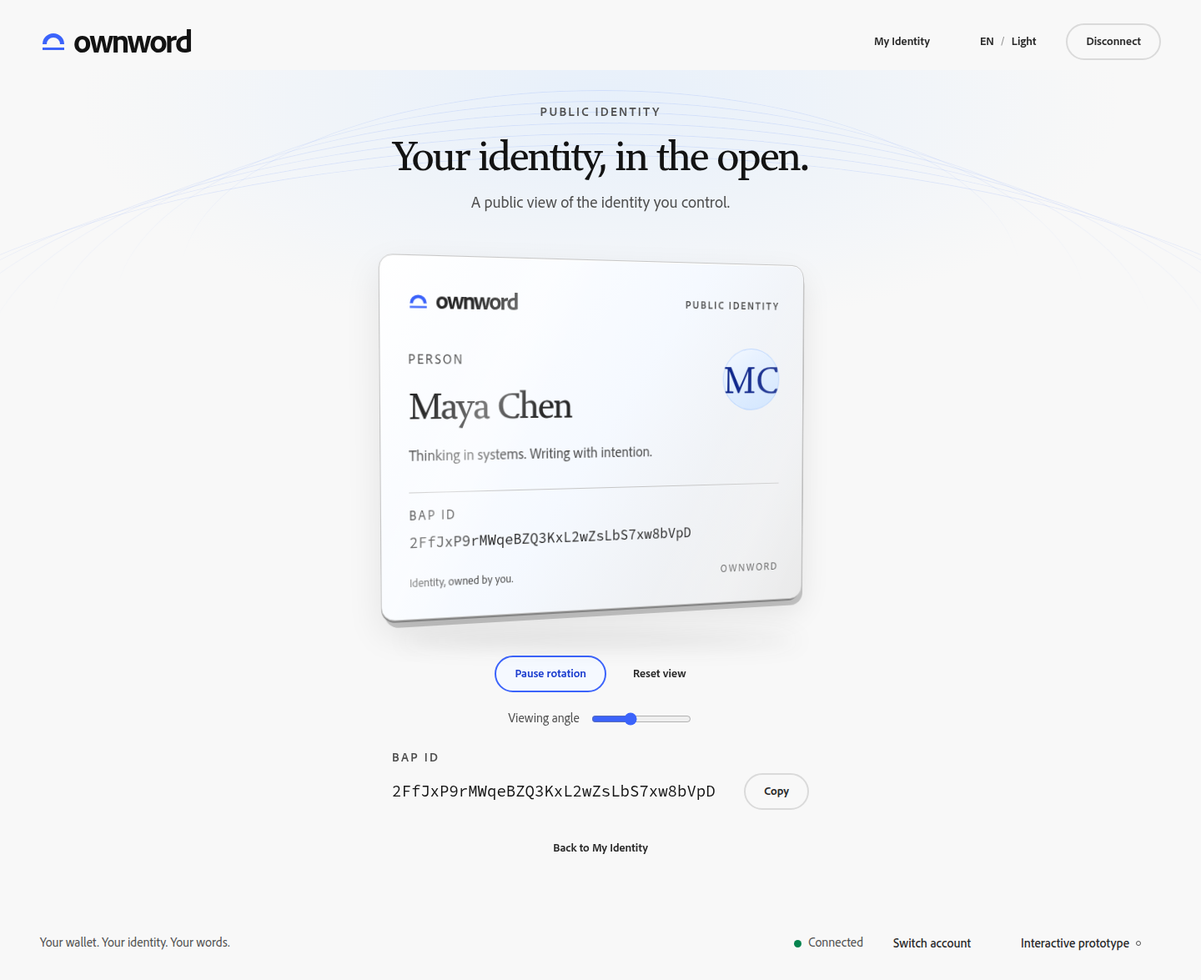
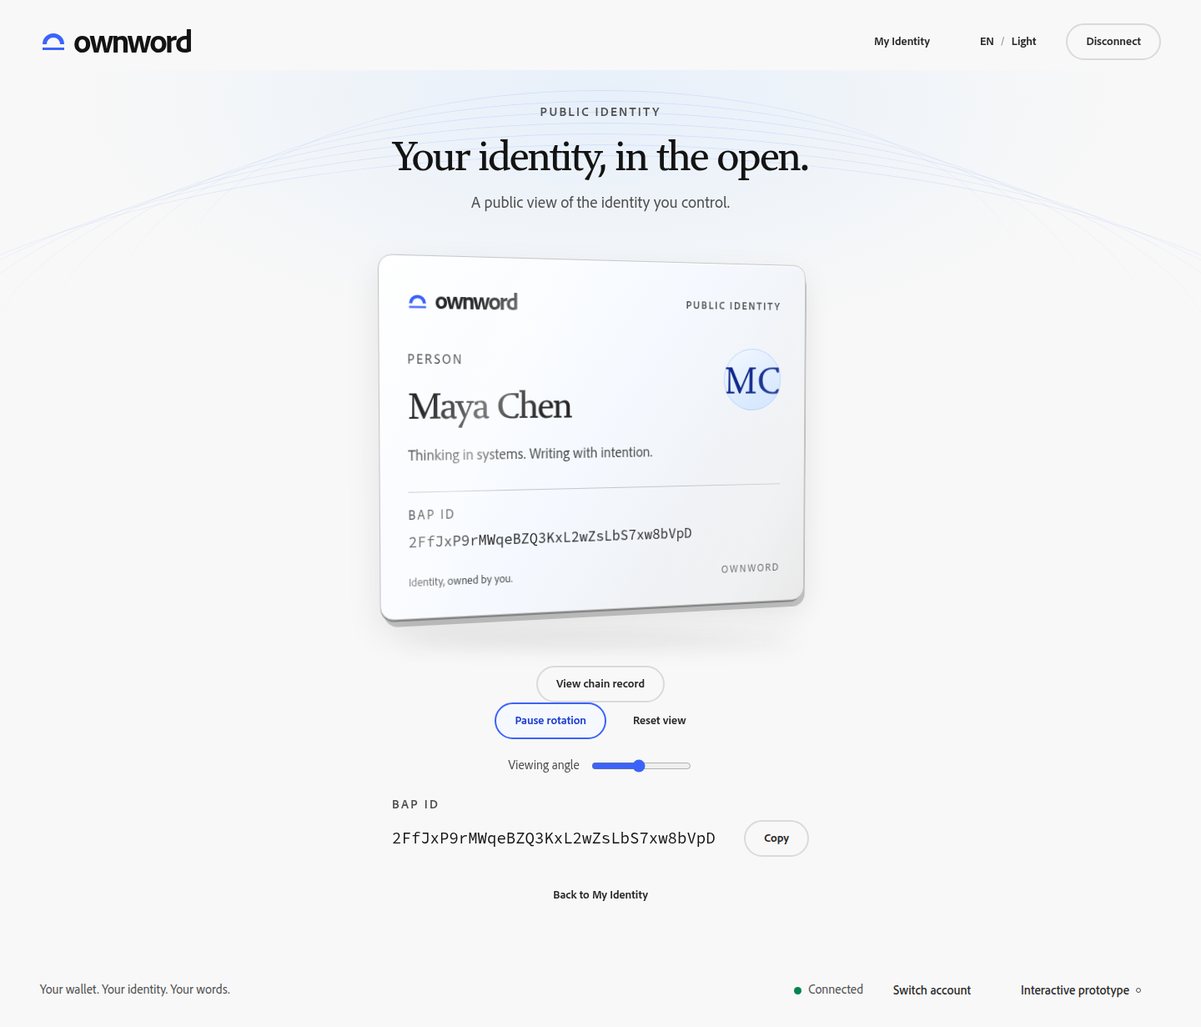
批3-a：公开身份卡双面链上记录（pending/confirmed 两态），修遮挡缺陷，426 项检查通过 (PRD v0.1_20260909-205445)

diff --git a/components.jsx b/components.jsx
@@ -71,7 +71,7 @@ function Modal({title, titleKey, children, onCancel, closeLabel}) {
     <h2 id="dialog-title">{title}</h2>{children}
   </dialog>;
 }
-function Identifier({id, t, failCopy = false}) {
+function Identifier({id, t, failCopy = false, label = 'BAP ID', copyLabel = 'copyBap', target = 'bap'}) {
   const [feedback, setFeedback] = React.useState('');
   React.useEffect(() => {setFeedback('');}, [id]);
   async function copy() {
@@ -79,27 +79,42 @@ function Identifier({id, t, failCopy = false}) {
     catch {setFeedback('copyFailed');}
   }
   return <div className="identifier">
-    <div className="identifier-top"><span className="eyebrow">BAP ID</span><span className="copy-feedback" role="status" data-copy-feedback={feedback || ""}>{feedback ? t(feedback) : ''}</span></div>
-    <div className="identifier-value"><code title={id}>{id}</code><Button data-action="copy" onClick={copy} aria-label={t('copyBap')}>{t('copy')}</Button></div>
+    <div className="identifier-top"><span className="eyebrow">{label}</span><span className="copy-feedback" role="status" data-copy-target={target} data-copy-feedback={feedback || ""}>{feedback ? t(feedback) : ''}</span></div>
+    <div className="identifier-value"><code title={id}>{id}</code><Button data-action={'copy-' + target} onClick={copy} aria-label={t(copyLabel)}>{t('copy')}</Button></div>
   </div>;
 }
-function IdentityCard({profile, id, t, failCopy, rotating, setRotating, angle, setAngle}) {
+function IdentityCard({profile, id, t, failCopy, transaction, rotating, setRotating, angle, setAngle}) {
   const drag = React.useRef(null);
+  const normalized = ((angle % 360) + 360) % 360;
+  // The back face is only exposed while the card is turned past 90 degrees;
+  // auto-rotation keeps the front in the accessibility tree.
+  const back = normalized > 90 && normalized < 270;
   return <div className="identity-stage">
     <div className="identity-object" onPointerDown={e => {if (e.target.closest('button')) return; drag.current = {x: e.clientX, angle}; setRotating(false); e.currentTarget.setPointerCapture(e.pointerId);}} onPointerMove={e => {if (drag.current) setAngle(drag.current.angle + (e.clientX - drag.current.x) * .35);}} onPointerUp={() => {drag.current = null;}} onPointerCancel={() => {drag.current = null;}}>
-      <div className={`identity-sculpture ${rotating ? 'rotating' : ''}`} style={{'--angle': `${angle}deg`}}>
+      <div className={`identity-sculpture ${rotating ? 'rotating' : ''}`} data-face={back ? 'back' : 'front'} style={{'--angle': `${angle}deg`}}>
         <div className="plate-depth" aria-hidden="true"></div>
-        <article className="identity-plate">
+        <article className="identity-plate plate-front" aria-hidden={back} inert={back ? '' : undefined}>
           <div className="plate-top"><span className="wordmark-small"><BrandMark />ownword</span><span className="eyebrow">{t('publicIdentity')}</span></div>
           <div className="plate-person"><Portrait profile={profile} large /><span className="profile-type">{t(profile.type)}</span><h2>{profile.name}</h2><p className="bio">{profile.bio || t('noBio')}</p></div>
           <div className="plate-id"><span>BAP ID</span><code>{id}</code></div>
           <div className="plate-foot"><span>{t('ownedByYou')}</span><span>OWNWORD</span></div>
         </article>
+        <article className="identity-plate plate-back" aria-hidden={!back} inert={!back ? '' : undefined}>
+          <div className="plate-top"><span className="wordmark-small"><BrandMark />ownword</span><span className="eyebrow">{t('chainRecord')}</span></div>
+          <div className="chain-heading"><h3>{t('identityPublication')}</h3><p>{profile.name}</p></div>
+          <dl className="chain-facts">
+            <div><dt>{t('blockHeight')}</dt><dd data-chain="block">{transaction && transaction.blockHeight ? transaction.blockHeight.toLocaleString('en-US') : t('pendingBlock')}</dd></div>
+            <div><dt>{t('confirmation')}</dt><dd data-chain="confirmation">{t(transaction && transaction.blockHeight ? 'confirmed' : 'pendingConfirmation')}</dd></div>
+          </dl>
+          {transaction ? <Identifier id={transaction.txid} label={t('publicationTx')} copyLabel="copyTx" target="tx" t={t} failCopy={failCopy} /> : <p className="hint">{t('recordUnavailable')}</p>}
+          <div className="plate-foot"><span>{t('sampleRecord')}</span><span>BSV</span></div>
+        </article>
       </div>
     </div>
     <div className="object-shadow" aria-hidden="true"></div>
+    <div className="card-actions"><Button data-action="toggle-face" onClick={() => {setRotating(false); setAngle(back ? 0 : 180);}}>{t(back ? 'showFront' : 'showRecord')}</Button></div>
     <div className="rotation-controls"><Button data-action="toggle-rotation" onClick={() => setRotating(!rotating)} aria-pressed={rotating}>{t(rotating ? 'pauseRotation' : 'rotate')}</Button><Button variant="quiet" data-action="reset-view" onClick={() => {setRotating(false); setAngle(0);}}>{t('resetView')}</Button></div>
-    <label className="rotation-label">{t('angle')}<input aria-label={t('angle')} type="range" min="-40" max="40" value={angle} onChange={e => {setRotating(false); setAngle(+e.target.value);}} /></label>
+    <label className="rotation-label">{t('angle')}<input aria-label={t('angle')} type="range" min="-180" max="180" value={angle} onChange={e => {setRotating(false); setAngle(+e.target.value);}} /></label>
     <div className="public-copy"><Identifier id={id} t={t} failCopy={failCopy} /></div>
   </div>;
 }

diff --git a/model.js b/model.js
@@ -2,11 +2,17 @@
 (function (root) {
   const ids = ['2FfJxP9rMWqeBZQ3KxL2wZsLbS7xw8bVpD', '3GkA8rRtC4a6oX9PzM2cV7mHxTqB5wEeNs'];
   const emptyProfile = () => ({name: '', type: 'Person', bio: '', image: ''});
+  // Display fixtures only. Production reads publication records from the wallet
+  // or indexer contract; see implementation-handoff.md section 3.
+  const transactions = [
[2 lines of base64/hex data omitted]
+  ];
   const fixtures = [
     {name: 'Maya Chen', type: 'Person', bio: 'Thinking in systems. Writing with intention.\nBuilding a more human internet.', image: ''},
     {name: 'North Studio', type: 'Organization', bio: 'An independent practice for ideas that endure.', image: ''}
   ];
-  function initial() { return {page: 'welcome', wallet: false, account: 0, published: false, profile: emptyProfile(), draft: emptyProfile(), modal: null, notice: '', error: '', busy: '', epoch: 0, incomplete: false}; }
+  function initial() { return {page: 'welcome', wallet: false, account: 0, published: false, transaction: null, profile: emptyProfile(), draft: emptyProfile(), modal: null, notice: '', error: '', busy: '', epoch: 0, incomplete: false}; }
   function validate(p) {
     return {name: !p.name.trim() ? 'required' : [...p.name].length > 100 ? 'nameLong' : '', bio: [...p.bio].length > 1000 ? 'bioLong' : '', type: !['Person', 'Organization'].includes(p.type) ? 'typeRequired' : ''};
   }
@@ -19,7 +25,7 @@
         if (a.scenario === 'resolveFail') return {...s, page: 'resolve-error', busy: '', error: 'resolveFailed'};
         const published = a.scenario === 'existing' || a.scenario === 'incomplete';
         const profile = published ? {...fixtures[s.account], ...(a.scenario === 'incomplete' ? {name: ''} : {})} : emptyProfile();
-        return {...s, page: a.scenario === 'existing' ? 'identity' : 'setup', profile, draft: {...profile}, published, incomplete: a.scenario === 'incomplete', busy: '', error: ''};
+        return {...s, page: a.scenario === 'existing' ? 'identity' : 'setup', profile, draft: {...profile}, published, transaction: published ? {...transactions[s.account]} : null, incomplete: a.scenario === 'incomplete', busy: '', error: ''};
       }
       case 'RETRY_RESOLVE': return {...s, page: 'resolving', busy: 'resolving', error: '', epoch: s.epoch + 1};
       case 'DRAFT': return {...s, draft: {...s.draft, [a.field]: a.value}, notice: '', error: ''};
@@ -29,7 +35,7 @@
       case 'CANCEL': return {...s, modal: null, busy: '', page: s.modal === 'save' ? (s.incomplete ? 'setup' : 'edit') : s.page, notice: s.modal === 'connect' ? 'connectCancelled' : s.modal === 'create' ? 'createCancelled' : 'saveCancelled'};
       case 'CONNECT_FAILED': return {...s, modal: null, error: 'connectFailed'};
       case 'PROCESS': return {...s, modal: null, busy: a.operation, epoch: s.epoch + 1};
-      case 'RESULT': return a.fail ? {...s, busy: '', error: a.operation === 'create' ? 'createFailed' : 'saveFailed'} : {...s, busy: '', page: a.operation === 'create' ? 'ready' : 'identity', published: true, incomplete: false, profile: {...s.draft}, notice: a.operation === 'save' ? 'saved' : '', error: ''};
+      case 'RESULT': return a.fail ? {...s, busy: '', error: a.operation === 'create' ? 'createFailed' : 'saveFailed'} : {...s, busy: '', page: a.operation === 'create' ? 'ready' : 'identity', published: true, transaction: a.operation === 'create' ? {...transactions[s.account], blockHeight: null} : s.transaction, incomplete: false, profile: {...s.draft}, notice: a.operation === 'save' ? 'saved' : '', error: ''};
       case 'CLEAR_NOTICE': return s.notice === a.notice ? {...s, notice: ''} : s;
       case 'GO': return {...s, page: a.page, notice: '', error: ''};
       case 'DISCARD_ASK': return {...s, modal: 'discard', destination: a.page};
@@ -40,7 +46,7 @@
       default: return s;
     }
   }
-  const api = {ids, fixtures, emptyProfile, initial, validate, reducer};
+  const api = {ids, fixtures, transactions, emptyProfile, initial, validate, reducer};
   if (typeof module !== 'undefined') module.exports = api;
   else root.OwnwordModel = api;
 })(typeof window !== 'undefined' ? window : globalThis);

diff --git a/app.css b/app.css
@@ -148,9 +148,9 @@ main { position: relative; width: 100%; max-width: 1280px; margin: 0 auto; paddi
 .identity-sculpture { position: relative; max-width: 530px; margin-inline: auto; transform-style: preserve-3d; transform: rotateX(6deg) rotateY(var(--angle)); transition: transform 150ms ease-out; }
 .identity-sculpture.rotating { animation: identity-turn 16s ease-in-out infinite; }
 @keyframes identity-turn { 0%,100% { transform: rotateX(5deg) rotateY(-18deg); } 50% { transform: rotateX(-3deg) rotateY(20deg); } }
-.identity-plate { position: relative; min-height: 330px; border-radius: var(--s2d-radius-xl); background: linear-gradient(125deg, var(--s2-gray-25), var(--s2-blue-100) 50%, var(--s2-gray-100)); border: 1px solid var(--s2-gray-400); padding: var(--s2-spacing-500); box-shadow: inset 0 1px 0 var(--s2-gray-25), 0 16px 40px color-mix(in srgb, var(--s2-black) 9%, transparent); transform: translateZ(6px); }
+.identity-plate { position: relative; backface-visibility: hidden; min-height: 330px; border-radius: var(--s2d-radius-xl); background: linear-gradient(125deg, var(--s2-gray-25), var(--s2-blue-100) 50%, var(--s2-gray-100)); border: 1px solid var(--s2-gray-400); padding: var(--s2-spacing-500); box-shadow: inset 0 1px 0 var(--s2-gray-25), 0 16px 40px color-mix(in srgb, var(--s2-black) 9%, transparent); transform: translateZ(6px); }
 .identity-plate::after { content: ''; position: absolute; inset: 0; border-radius: inherit; background: linear-gradient(115deg, transparent 18%, color-mix(in srgb, var(--s2-white) 38%, transparent) 28%, transparent 38%, transparent 70%, color-mix(in srgb, var(--s2-white) 22%, transparent) 85%, transparent); pointer-events: none; }
-.plate-depth { position: absolute; inset: 3px -2px -4px 2px; transform: translateZ(-4px); border-radius: var(--s2d-radius-xl); background: var(--s2-gray-500); box-shadow: 4px 6px 0 var(--s2-gray-400); }
+.plate-depth { pointer-events: none; position: absolute; inset: 3px -2px -4px 2px; transform: translateZ(-4px); border-radius: var(--s2d-radius-xl); background: var(--s2-gray-500); box-shadow: 4px 6px 0 var(--s2-gray-400); }
 .plate-top, .plate-foot { display: flex; align-items: center; justify-content: space-between; gap: var(--s2-spacing-200); }
 .wordmark-small { display: inline-flex; align-items: center; gap: var(--s2-spacing-100); flex-shrink: 0; font-size: var(--s2-font-size-500); font-weight: 750; letter-spacing: -.07em; }
 .wordmark-small .brand-mark { width: 24px; height: 24px; }
@@ -279,4 +279,21 @@ main { position: relative; width: 100%; max-width: 1280px; margin: 0 auto; paddi
   .brand-loading .brand-mark, .brand-loading::before { animation: none; }
   *, *::before, *::after { scroll-behavior: auto !important; animation-duration: .01ms !important; animation-iteration-count: 1 !important; transition-duration: .01ms !important; }
   .identity-sculpture.rotating { animation: none; transform: rotateY(var(--angle)); }
+}
+
+.identity-sculpture[data-face="front"] .plate-back,
+.identity-sculpture[data-face="back"] .plate-front { pointer-events: none; }
+.plate-back { position: absolute; inset: 0; transform: rotateY(180deg); display: flex; flex-direction: column; gap: var(--s2-spacing-300); }
+.chain-heading { margin-top: var(--s2-spacing-500); }
+.chain-heading h3 { font-family: var(--s2d-font-serif), "Songti SC", serif; font-size: var(--s2-font-size-700); font-weight: 500; letter-spacing: -.03em; }
+.chain-heading > p { margin-top: var(--s2-spacing-100); color: var(--s2-gray-700); font-size: var(--s2-font-size-100); }
+.chain-facts { display: grid; grid-template-columns: repeat(2, minmax(0, 1fr)); gap: var(--s2-spacing-300); margin: 0; padding-top: var(--s2-spacing-300); border-top: 1px solid var(--s2-gray-400); }
+.chain-facts > div { display: grid; gap: var(--s2-spacing-100); }
+.chain-facts dt { font-size: var(--s2-font-size-50); letter-spacing: .14em; color: var(--s2-gray-700); }
+.chain-facts dd { margin: 0; font-size: var(--s2-font-size-200); font-weight: 600; }
+.plate-back .identifier { margin-top: auto; }
+.plate-back .plate-foot { margin-top: var(--s2-spacing-300); }
+.card-actions { display: flex; justify-content: center; margin-top: var(--s2-spacing-400); }
+@media (max-width: 480px) {
+  .chain-facts { grid-template-columns: minmax(0, 1fr); }
 }

diff --git a/copy.js b/copy.js
@@ -29,7 +29,8 @@
     save: 'Save Changes', discardTitle: 'Discard unsaved changes?', discardBody: 'Your changes have not been saved. Keep editing, or discard them to leave this page.', keepEditing: 'Keep editing', discard: 'Discard changes',
     accountChanged: 'Account changed. Pending operations were cancelled.', identityUnchanged: 'Your identity is unchanged.', current: 'Current', preferenceHint: 'Language and appearance stay on this device.', demoAccount: 'Demo account', demoData: 'Sample identity · prototype data',
     setupStep: 'Profile', reviewStep: 'Review', confirmStep: 'Confirm', doneStep: 'Ready', copyFailureOn: 'Copy failure simulation is on', privatePreview: 'Public view preview',
-    walletStatus: 'Wallet status', persistFailed: 'Preferences could not be saved on this device.', reducedMotion: 'Reduced motion follows your device preference.'
+    walletStatus: 'Wallet status', persistFailed: 'Preferences could not be saved on this device.', reducedMotion: 'Reduced motion follows your device preference.',
+    chainRecord: 'Chain record', identityPublication: 'Identity publication', blockHeight: 'Block height', confirmation: 'Confirmation', confirmed: 'Confirmed', pendingConfirmation: 'Awaiting block confirmation', pendingBlock: 'Awaiting block', publicationTx: 'Publication TxID', copyTx: 'Copy publication TxID', showRecord: 'View chain record', showFront: 'View identity', recordUnavailable: 'Transaction record unavailable', sampleRecord: 'Sample record · prototype data'
   },
   zh: {
     connect: '连接钱包', connected: '已连接', notConnected: '未连接', connecting: '正在连接', disconnect: '断开连接', accountSwitch: '切换账户', wallet: '钱包',
@@ -59,7 +60,8 @@
     save: '保存修改', discardTitle: '放弃未保存的修改？', discardBody: '修改尚未保存。可继续编辑，或放弃修改后离开。', keepEditing: '继续编辑', discard: '放弃修改',
     accountChanged: '账户已切换，进行中的操作已取消。', identityUnchanged: '身份未改变。', current: '当前', preferenceHint: '语言与主题偏好保存在此设备。', demoAccount: '演示账户', demoData: '示例身份 · 原型数据',
     setupStep: '资料', reviewStep: '核对', confirmStep: '确认', doneStep: '就绪', copyFailureOn: '已开启复制失败模拟', privatePreview: '公开展示预览',
-    walletStatus: '钱包状态', persistFailed: '无法在此设备保存偏好。', reducedMotion: '动画遵循设备的减少动态效果设置。'
+    walletStatus: '钱包状态', persistFailed: '无法在此设备保存偏好。', reducedMotion: '动画遵循设备的减少动态效果设置。',
+    chainRecord: '链上记录', identityPublication: '身份发布记录', blockHeight: '区块高度', confirmation: '确认状态', confirmed: '已确认', pendingConfirmation: '等待区块确认', pendingBlock: '等待入块', publicationTx: '发布交易 TxID', copyTx: '复制发布交易 TxID', showRecord: '查看链上记录', showFront: '查看身份', recordUnavailable: '暂无交易记录', sampleRecord: '示例记录 · 原型数据'
   }
   };
   const api = {en: words.en, zh: words.zh, locales: ['en', 'zh'], keys: Object.keys(words.en)};

diff --git a/app.jsx b/app.jsx
@@ -156,7 +156,7 @@ function App() {
         <aside className="profile-detail"><span className="eyebrow">{t('profileDetails')}</span><h3>{t('bio')}</h3><p className="bio">{state.profile.bio || t('noBio')}</p><div className="detail-bottom"><S2.StatusLight label={t('published')} /><span>{t('demoData')}</span></div></aside></div>
         <div className="flat-horizon" aria-hidden="true"></div>
       </section>}
-      {state.page === 'public' && <section className="public-page">{heading('publicIntro', 'publicBody', 'publicIdentity')}<IdentityCard profile={profileDisplay} id={bapId} t={t} failCopy={failCopy} rotating={rotating} setRotating={setRotating} angle={angle} setAngle={setAngle} /><div className="public-back"><Button variant="quiet" data-action="back-identity" onClick={() => navigate('identity')}>{t('backIdentity')}</Button></div></section>}
+      {state.page === 'public' && <section className="public-page">{heading('publicIntro', 'publicBody', 'publicIdentity')}<IdentityCard profile={profileDisplay} id={bapId} t={t} failCopy={failCopy} transaction={state.transaction} rotating={rotating} setRotating={setRotating} angle={angle} setAngle={setAngle} /><div className="public-back"><Button variant="quiet" data-action="back-identity" onClick={() => navigate('identity')}>{t('backIdentity')}</Button></div></section>}
     </main>
     <footer className="footer"><p>{t('footer')}</p><div className="footer-controls">{state.wallet && <span className="wallet-connected"><S2.StatusLight label={t('connected')} /><Button variant="quiet" onClick={switchAccount}>{t('accountSwitch')}</Button></span>}<Button variant="quiet" onClick={() => setLab(!lab)} aria-expanded={lab}>{t('prototype')}<span className="prototype-dot" aria-hidden="true"></span></Button></div></footer>
     {lab && <section className="scenario-panel" aria-label={t('scenarios')}><div className="panel-title"><h2>{t('scenarios')}</h2><Button variant="quiet" onClick={() => setLab(false)}>{t('close')}</Button></div><p>{t('simulatorNote')}</p><label>{t('scenario')}<select value={scenario} onChange={e => setScenario(e.target.value)}>{['new', 'existing', 'incomplete', 'resolveFail', 'missing'].map(key => <option value={key} key={key}>{t(key)}</option>)}</select></label><p className="hint">{t('simulatorHint')}</p><label className="check-row"><input type="checkbox" checked={failCopy} onChange={e => setFailCopy(e.target.checked)} />{t('failClipboard')}</label><div className="action-row">{state.wallet && <Button onClick={resolveAgain}>{t('resolveAgain')}</Button>}<Button onClick={disconnect}>{t('reset')}</Button></div></section>}

diff --git a/check-browser.py b/check-browser.py
@@ -287,16 +287,16 @@ try:
     inspect('setup', True)
     click_action('review'); wait_page('review')
     inspect('review', True)
-    click_action('copy')
-    wait_until('document.querySelector("[data-copy-feedback]")?.dataset.copyFeedback === "copied" && document.querySelector("[data-copy-feedback]").textContent.trim().length > 0', 'Copy success feedback', diagnostic='(document.querySelector("[data-copy-feedback]")||{}).dataset.copyFeedback')
+    click_action('copy-bap')
+    wait_until('document.querySelector("[data-copy-target=bap]")?.dataset.copyFeedback === "copied" && document.querySelector("[data-copy-target=bap]").textContent.trim().length > 0', 'Copy success feedback', diagnostic='(document.querySelector("[data-copy-target=bap]")||{}).dataset.copyFeedback')
     # Paste through a user gesture; direct Clipboard.readText needs a separate
     # browser permission and is not part of this product's Copy behavior.
     click_action('back'); call('fill', '#profile-name', ''); call('focus', '#profile-name'); call('clipboard', 'paste')
     expect('document.querySelector("#profile-name").value === OwnwordModel.ids[0]', 'Clipboard contains complete BAP ID')
     call('fill', '#profile-name', 'Maya Chen'); click_action('review')
     click_selector('.footer-controls > button'); scroll_to('.scenario-panel input[type=checkbox]'); call('check', '.scenario-panel input[type=checkbox]'); click_selector('.panel-title button')
-    click_action('copy')
-    wait_until('document.querySelector("[data-copy-feedback]")?.dataset.copyFeedback === "copyFailed" && !!document.querySelector(".identifier code").textContent', 'Copy failure preserves identifier', diagnostic='(document.querySelector("[data-copy-feedback]")||{}).dataset.copyFeedback')
+    click_action('copy-bap')
+    wait_until('document.querySelector("[data-copy-target=bap]")?.dataset.copyFeedback === "copyFailed" && !!document.querySelector(".identifier code").textContent', 'Copy failure preserves identifier', diagnostic='(document.querySelector("[data-copy-target=bap]")||{}).dataset.copyFeedback')
     click_selector('.footer-controls > button'); scroll_to('.scenario-panel input[type=checkbox]'); call('uncheck', '.scenario-panel input[type=checkbox]'); click_selector('.panel-title button')
     click_action('submit-operation')
     call('set', 'viewport', 320, 800)
@@ -333,7 +333,14 @@ try:
     expect('document.querySelector(".identity-sculpture").classList.contains("rotating")', 'Public Identity rotates')
     click_action('toggle-rotation')
     call('focus', '.rotation-label input'); call('press', 'End')
-    expect('document.querySelector(".identity-sculpture").style.getPropertyValue("--angle") === "40deg"', '3D viewing angle controllable')
+    expect('document.querySelector(".identity-sculpture").style.getPropertyValue("--angle") === "180deg"', '3D viewing angle controllable')
+    expect('document.querySelector(".identity-sculpture").dataset.face === "back" && !document.querySelector(".plate-back").hasAttribute("inert")', 'Turning past 90 degrees exposes the chain record face')
+    expect('document.querySelector(".plate-front").hasAttribute("inert") && document.querySelector(".plate-front").getAttribute("aria-hidden") === "true"', 'Only one card face stays in the accessibility tree')
+    expect('!!document.querySelector(".plate-back [data-chain=block]").textContent.trim() && !!document.querySelector(".plate-back [data-chain=confirmation]").textContent.trim()', 'Chain record shows block height and confirmation state')
+    click_action('copy-tx')
+    wait_until('document.querySelector("[data-copy-target=tx]")?.dataset.copyFeedback === "copied"', 'Publication TxID copy works', diagnostic='(document.querySelector("[data-copy-target=tx]")||{}).dataset.copyFeedback')
+    click_action('toggle-face')
+    expect('document.querySelector(".identity-sculpture").dataset.face === "front"', 'Flip control returns to the identity face')
     click_action('reset-view')
     click_action('back-identity'); click_action('edit')
     call('fill', '#profile-name', 'Maya Revised')

diff --git a/implementation-handoff.md b/implementation-handoff.md
@@ -75,7 +75,7 @@
 | 钱包确认弹窗：Approve / Cancel / Simulate failure（`app.jsx` 的 `confirmConnection`、`approveOperation`） | Yours Wallet Provider（`@1sat/react` 的 `WalletProvider`：`connect`、`disconnect`、`status`、`identityKey`；`signWithBAP`）。参考 `reference/yours-wallet-main/.../docs/provider-api.md` | 输入：用户手势与待签内容；输出：连接状态、`identityKey`、签名结果；取消 = 用户拒绝签名；失败 = provider 抛错 | PRD 5.1、5.2 |
 | 身份解析：850ms 计时器 + 场景选择 | 按 `identityKey` 查询已发布 BAP 身份与 profile（Indexer / 1sat-stack） | 输入：`identityKey`；输出：`{exists, profile, published, incomplete}` 或解析失败 | PRD 5.3 |
 | 创建/更新：`PROCESS` → 1500ms → `RESULT` | BAP 签名 + 广播交易，返回 TxID | 输入：profile 字段 + `identityKey`；输出：TxID 或失败原因 | PRD 5.4、5.6；核心认知 11.7 |
-| 无对应状态 | 交易确认状态归一化（SEEN / ACCEPTED / MINED / IMMUTABLE） | 输入：交易查询结果；输出：归一化状态与「Confirmation pending」提示 | 核心认知 11.8、12.3 |
+| 公开身份卡背面的「链上记录」：`transaction` fixture（区块高度、确认状态、TxID） | 交易查询结果 → `{state: 'pending'\|'confirmed', txid: string\|null, blockHeight: number\|null}`。生产按核心认知第 12 节第 3 项归一化（SEEN / ACCEPTED / MINED / IMMUTABLE），原型只呈现 pending / confirmed 两态 | 输入：交易查询结果；输出：区块高度、确认状态与 TxID | 核心认知 11.8、12.3 |
 | 头像：本地 blob URL 预览，无上传 | 维持本地预览。v0.1 第 9 节第 1 项裁决为「支持本地、暂不支持 URL」 | 输入：用户选择的图片文件；输出：预览或格式错误提示 | PRD 5.4、第 9 节裁决 |
 | 复制：Clipboard API + `Copied` / `Couldn't copy` 反馈 | 同一 API；必须复制完整原值 | 输入：可见的缩略 BAP ID；输出：剪贴板完整值 + 不改布局的反馈 | PRD 5.5；核心认知 11.6 |
 | 语言与主题：`localStorage` 持久化 | 保留为客户端偏好 | 输入：用户选择；输出：界面语言/主题；链上标识与用户内容不得改变 | PRD 8.8、5.9；核心认知 11.11 |
